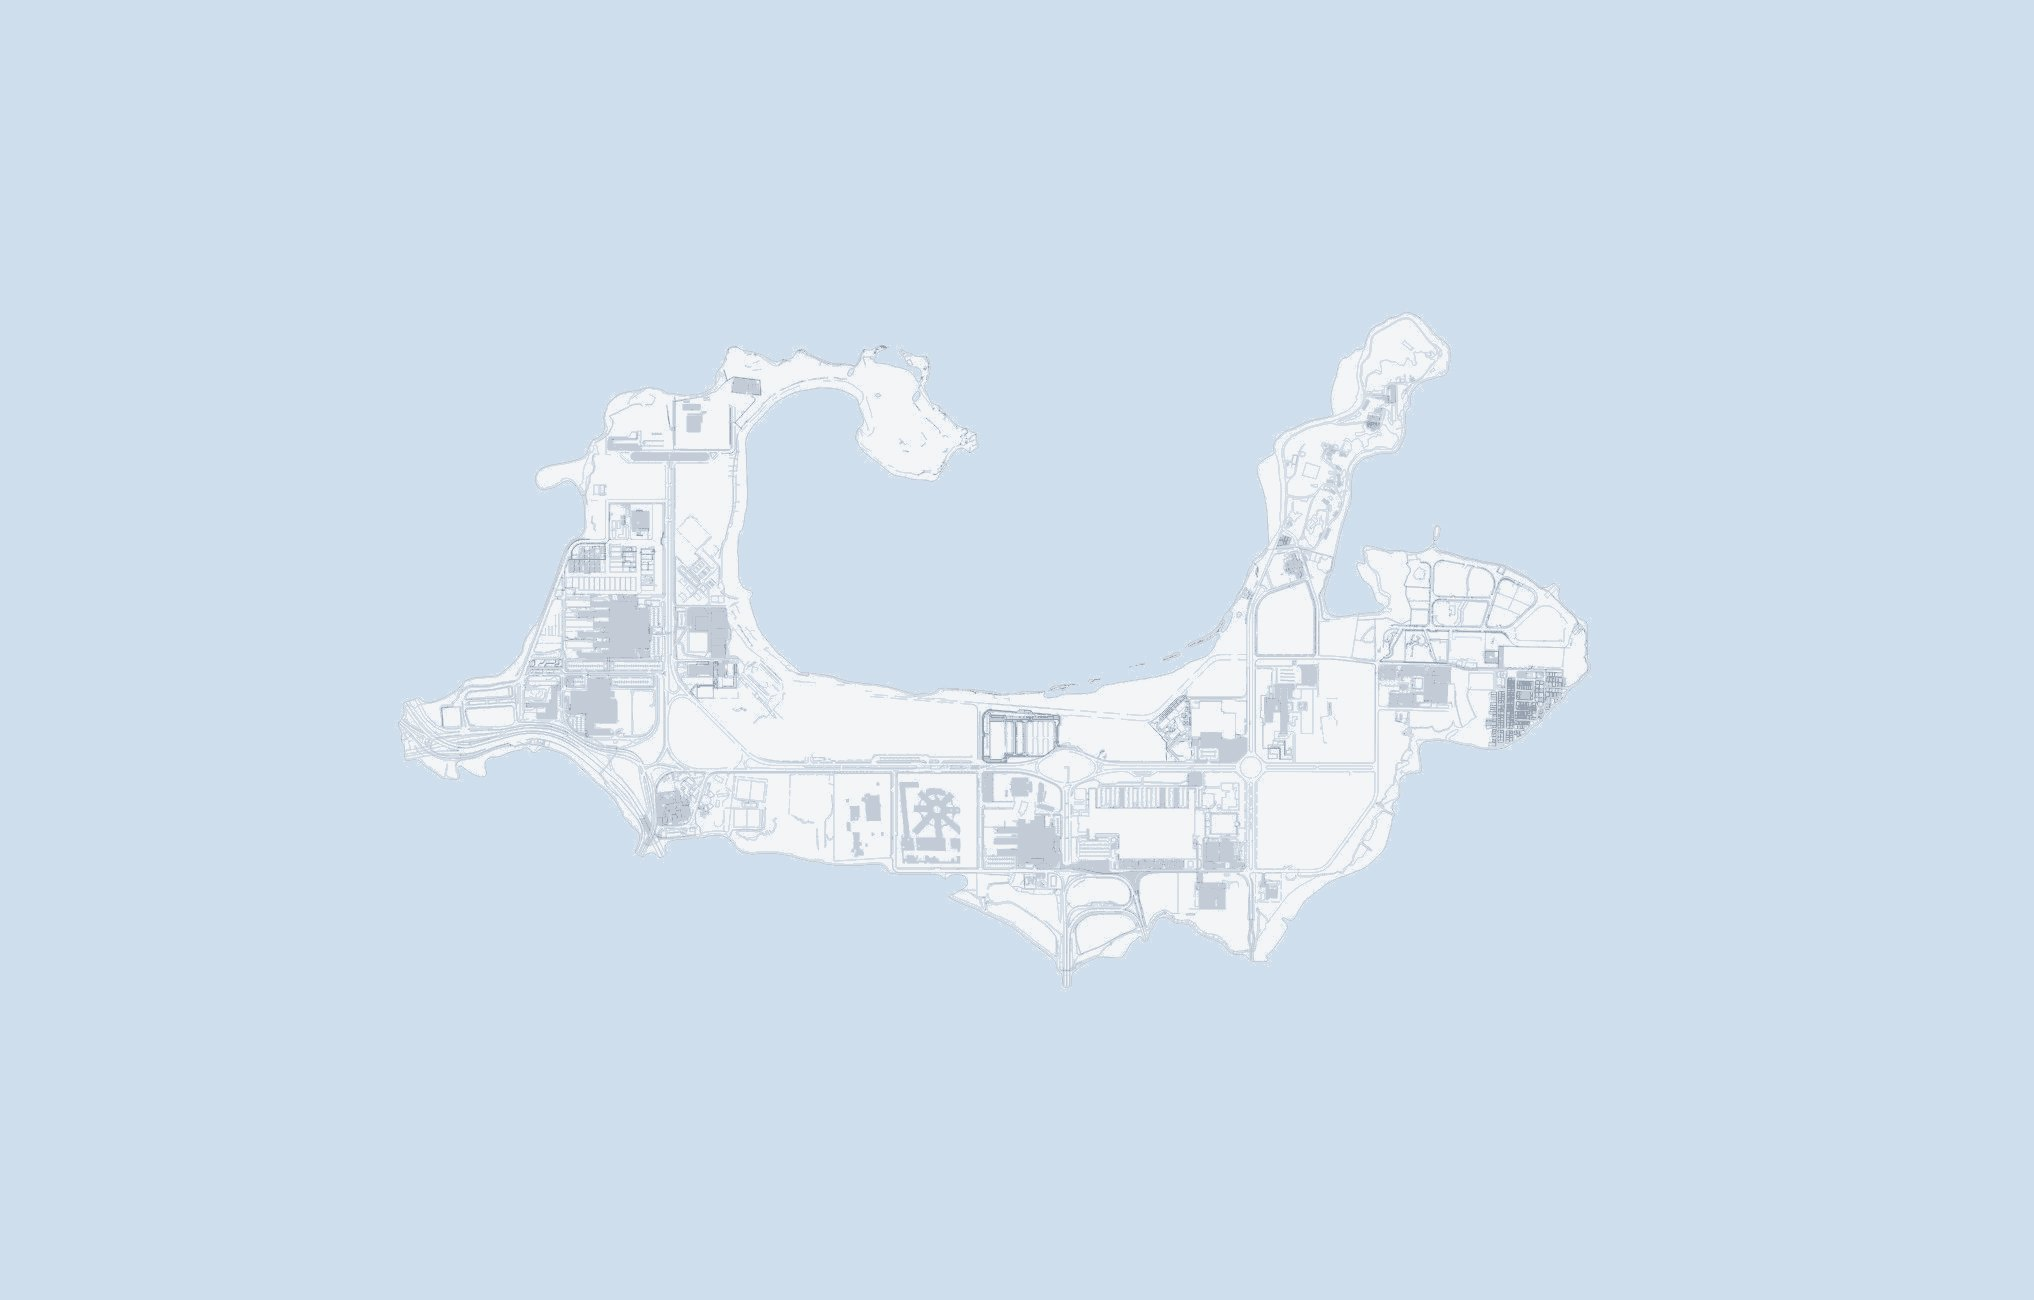
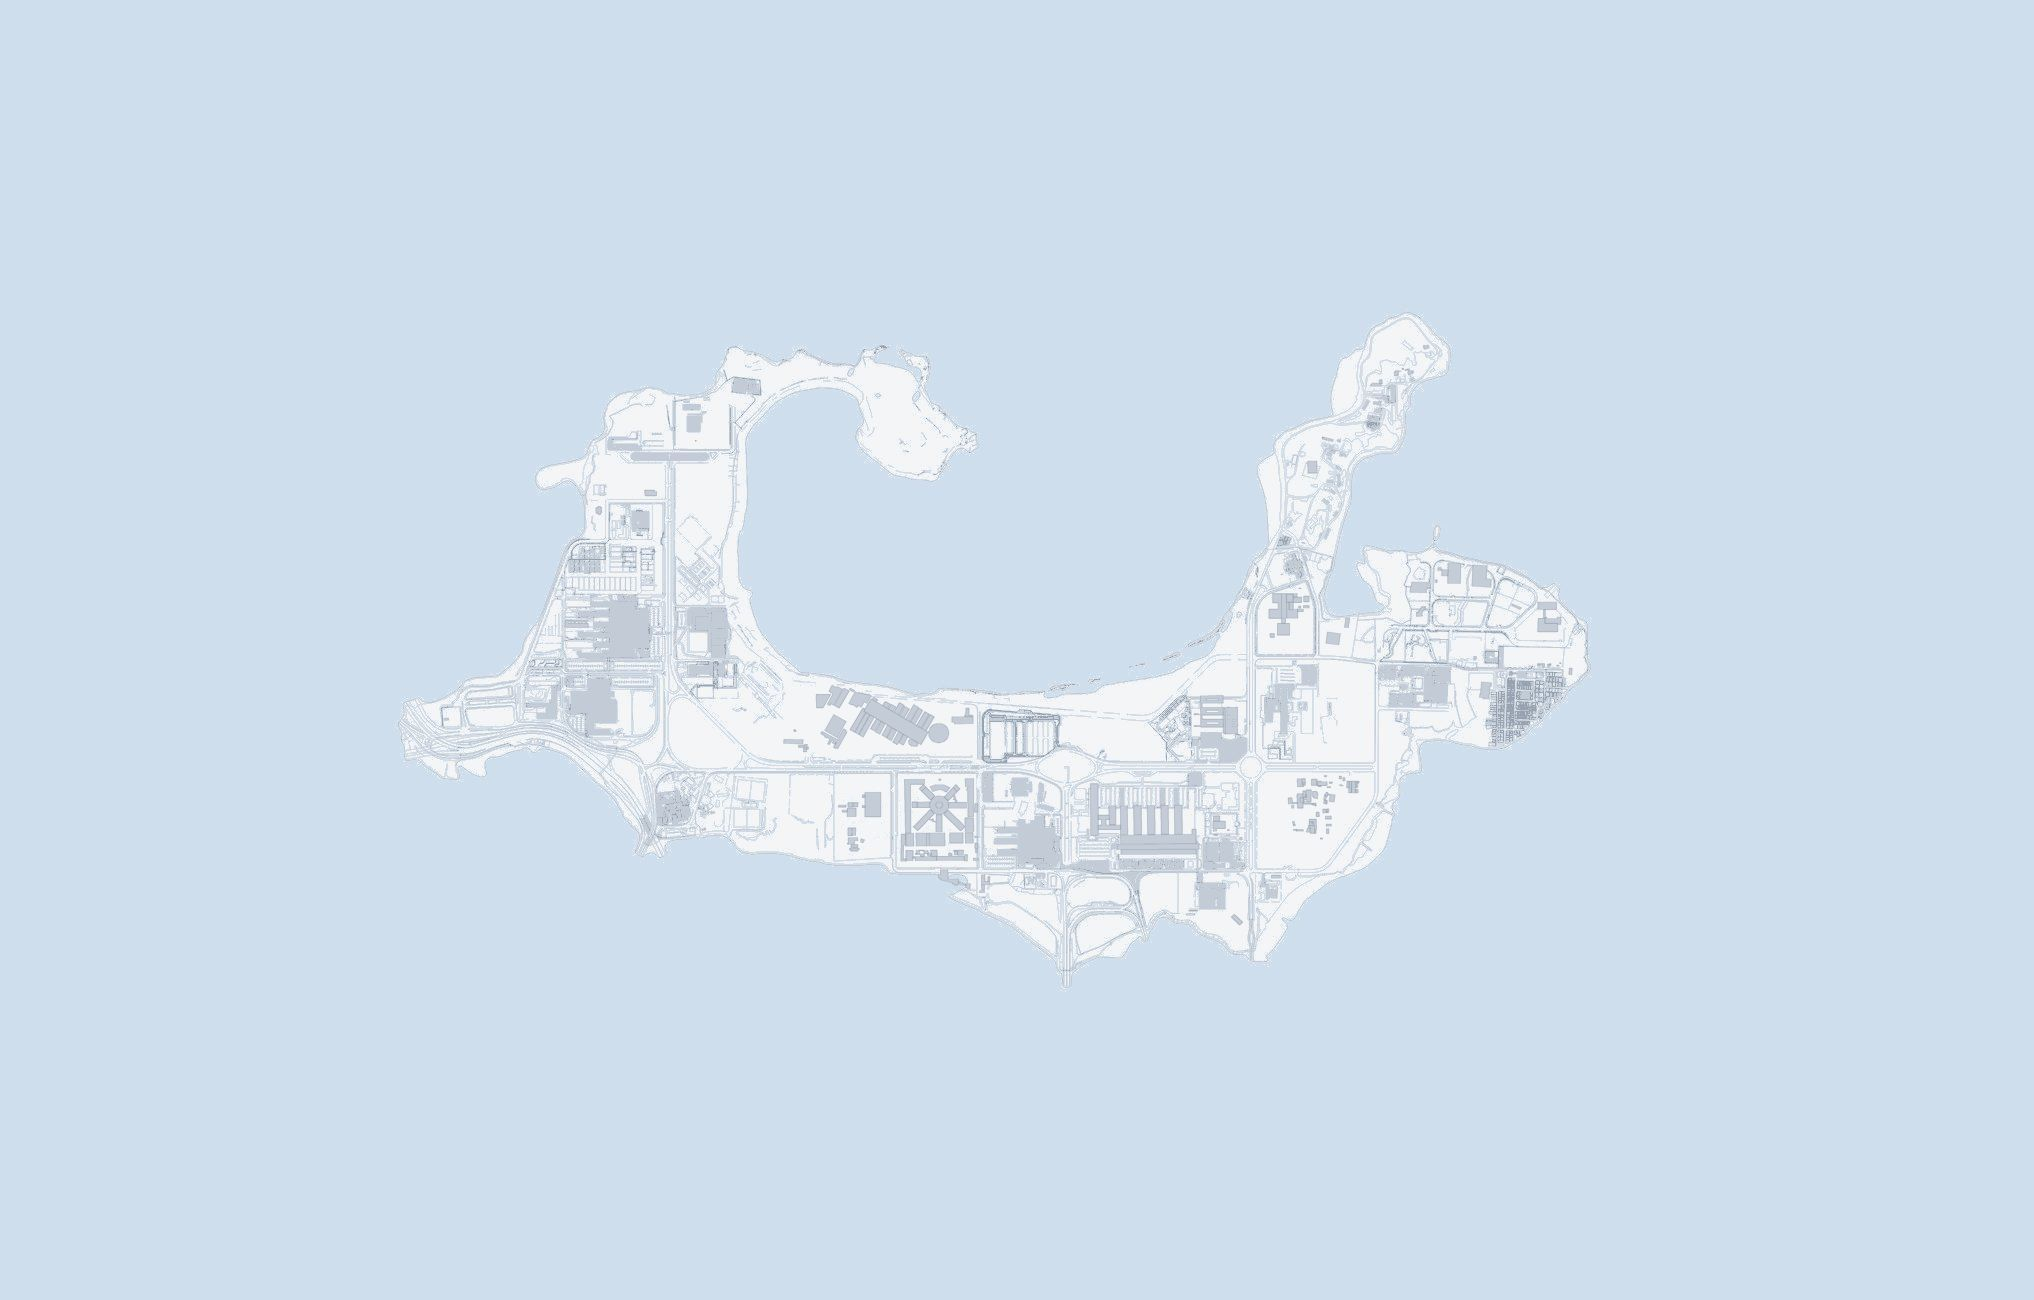
Capa e fundos com os prédios do cadastro da UFRJ
As imagens da planta (capa, fundo do login, fundo do app e visão geral do
mapa) ainda mostravam o CENPES borrado e não tinham o CENPES II, o IEN e o
bloco central do CT. tools/planta_imagens.py refaz essas imagens a partir
das originais (guardadas em tools/dados/planta/) e de src/edificacoes.json.

Claude-Session: https://claude.ai/code/session_01DT6KB29HVrx5nCmAST2Dnt

diff --git a/index.html b/index.html
@@ -13,7 +13,7 @@
 <meta name="apple-mobile-web-app-title" content="Chega aí">
 <link rel="apple-touch-icon" href="apple-touch-icon.png">
 <link rel="icon" type="image/png" sizes="32x32" href="favicon-32.png">
-<link rel="stylesheet" href="style.css?v=20261107-2241">
+<link rel="stylesheet" href="style.css?v=20261107-2256">
 </head>
 <body>
 <svg width="0" height="0" style="position:absolute" aria-hidden="true" focusable="false"><filter id="lg-refract" x="0" y="0" width="100%" height="100%" color-interpolation-filters="sRGB"><feTurbulence type="fractalNoise" baseFrequency="0.012 0.018" numOctaves="2" seed="11" result="n"/><feGaussianBlur in="n" stdDeviation="2.5" result="nb"/><feDisplacementMap in="SourceGraphic" in2="nb" scale="14" xChannelSelector="R" yChannelSelector="G"/></filter></svg>
@@ -171,7 +171,7 @@
 
   <details class="foot"><summary>Sobre o protótipo e as fontes</summary><p>Linhas, ordem das paradas e frequências: página de <a href="https://prefeitura.ufrj.br/servicos/transporte-integrado/linhas-internas/" target="_blank" rel="noopener">linhas internas da Prefeitura Universitária</a>, dias úteis. Horários do CCMN: <a href="https://sibi.ufrj.br/2019/09/17/informacoes-bibliotecas-ciencias-exatas-e-da-terra/" target="_blank" rel="noopener">SiBI/UFRJ</a> e lista de endereços das unidades da UFRJ (2022); podem mudar nas férias. Os horários de cada parada são estimados a partir da frequência e da distância. O mapa base é a planta de situação da Cidade Universitária (levantamento cadastral da ETU/Prefeitura Universitária, 2015, desenho de 2022), vetorizada e em versão escura; o traçado das linhas e a posição das paradas sobre ela são aproximados. Telefones de segurança: <a href="https://prefeitura.ufrj.br/2024/12/contatos-de-emergencia-ufrj/" target="_blank" rel="noopener">Contatos de emergência da Prefeitura Universitária</a> (dez/2024). Horários dos RUs: <a href="https://ru.ufrj.br/index.php/2014-08-19-01-48-52" target="_blank" rel="noopener">Sistema de Alimentação</a> e <a href="https://conexao.ufrj.br/2025/11/restaurantes-universitarios-comemoram-250-dias-de-cafe-da-manha-na-ufrj/" target="_blank" rel="noopener">Conexão UFRJ (nov/2025)</a>. Calendário: datas de graduação 2026 publicadas pelo <a href="https://www.ie.ufrj.br/graduacao-calendarios.html" target="_blank" rel="noopener">IE/UFRJ</a> e pela <a href="https://direito.ufrj.br/wp-content/uploads/2024/07/CALENDARIO-ACADEMICO-2026-2.docx-Google-Docs.pdf" target="_blank" rel="noopener">FND/UFRJ</a>. Tutorial do eduroam: <a href="https://tic.ufrj.br/conheca-o-eduroam/" target="_blank" rel="noopener">TIC/UFRJ</a> e <a href="https://ajuda.rnp.br/eduroam/manual-do-usuario" target="_blank" rel="noopener">manual da RNP</a>. Pontos de Wi-Fi aberto, notas e dicas são exemplos para a turma validar no campus. A sua nota fica salva só neste aparelho.</p></details>
 </div>
-<script src="config.js?v=20261107-2241"></script>
-<script src="app.js?v=20261107-2241"></script>
+<script src="config.js?v=20261107-2256"></script>
+<script src="app.js?v=20261107-2256"></script>
 </body>
 </html>

diff --git a/sw.js b/sw.js
@@ -1,6 +1,6 @@
-/* Chega aí UFRJ · service worker (gerado no empacotamento, versão 20261107-2241) */
-var CACHE='cse-20261107-2241';
-var PRE=["./", "index.html", "style.css?v=20261107-2241", "app.js?v=20261107-2241", "config.js?v=20261107-2241", "manifest.json", "icon-192.png", "icon-512.png", "apple-touch-icon.png", "favicon-32.png", "mapa-blur-claro.jpg", "mapa-blur.jpg", "mapa-bordas-claro.jpg", "mapa-bordas.jpg", "mapa-campus-claro.jpg", "mapa-campus-claro.svg", "mapa-campus.jpg", "mapa-campus.svg", "mapa-mini-claro.jpg", "mapa-mini.jpg"];
+/* Chega aí UFRJ · service worker (gerado no empacotamento, versão 20261107-2256) */
+var CACHE='cse-20261107-2256';
+var PRE=["./", "index.html", "style.css?v=20261107-2256", "app.js?v=20261107-2256", "config.js?v=20261107-2256", "manifest.json", "icon-192.png", "icon-512.png", "apple-touch-icon.png", "favicon-32.png", "mapa-blur-claro.jpg", "mapa-blur.jpg", "mapa-bordas-claro.jpg", "mapa-bordas.jpg", "mapa-campus-claro.jpg", "mapa-campus-claro.svg", "mapa-campus.jpg", "mapa-campus.svg", "mapa-mini-claro.jpg", "mapa-mini.jpg"];
 self.addEventListener('install',function(e){
   e.waitUntil(caches.open(CACHE).then(function(c){return Promise.all(PRE.map(function(u){return c.add(u).catch(function(){})}))}).then(function(){return self.skipWaiting()}));
 });

diff --git a/app.js b/app.js
@@ -3304,7 +3304,7 @@ aoFazer('trajeto montado',function(){if(CMP.on)cmpSchedule()});/* ---------- fil
 })();
 /* ======================= versão de apresentação: robustez ======================= */
 /* Número da versão: o empacotamento para o GitHub troca 'dev' pela data e hora do pacote. */
-var APP_VERSION='20261107-2241';
+var APP_VERSION='20261107-2256';
 var ON_SITE=!(window.claude&&typeof window.claude.use==='function');
 /* ---------- limite de envios: carimbo do servidor + intervalo no aparelho ---------- */
 var POST_GAP={rep:30,fila:30,req:60};

diff --git a/tools/planta_imagens.py b/tools/planta_imagens.py
@@ -1,0 +1,73 @@
+# Refaz as imagens da planta (mapa-campus, mapa-bordas, mapa-mini e mapa-blur, temas escuro e claro) com os prédios
+# do cadastro da UFRJ (src/edificacoes.json, gerado por tools/edificacoes_ufrj.py): os que faltavam e os redesenhados.
+# Essas imagens aparecem na capa, no fundo do login, no fundo do app e na visão geral do mapa; no zoom o app usa o
+# SVG da planta com os mesmos prédios desenhados por cima (src/js/26-predios-ufrj.js).
+#
+# Parte sempre das imagens originais, guardadas em tools/dados/planta/, então pode rodar quantas vezes quiser.
+# Uso, na raiz do repositório:  python3 tools/planta_imagens.py
+import json, os, re
+import numpy as np
+from PIL import Image, ImageDraw, ImageFilter
+
+ROOT = os.path.dirname(os.path.dirname(os.path.abspath(__file__)))
+ORIG = os.path.join(ROOT, 'tools', 'dados', 'planta')
+EDIF = json.load(open(os.path.join(ROOT, 'src', 'edificacoes.json'), encoding='utf-8'))
+
+# cores da planta (as mesmas de src/css/12-predios-ufrj.css): chão, prédio e contorno
+CORES = {'': ('#12161c', '#4d5967', '#6f7b89'), '-claro': ('#f4f6f8', '#c4cdd7', '#96a2af')}
+# área de cada imagem em unidades do mapa (x, y, largura, altura)
+CAMPUS, BORDAS = (109, -45, 1233, 701), (-270, -340, 2034, 1300)
+SS = 4  # desenha em 4x e reduz, para as bordas ficarem suaves
+
+def aneis(d):
+  out = []
+  for parte in re.findall(r'M([^MZ]*)Z', d):
+    v = [float(t) for t in parte.split()]
+    out.append([(v[i], v[i + 1]) for i in range(0, len(v) - 1, 2)])
+  return out
+def dentro(P, x, y):
+  o = False; j = len(P) - 1
+  for i in range(len(P)):
+    (ax, ay), (bx, by) = P[i], P[j]
+    if (ay > y) != (by > y) and x < (bx - ax) * (y - ay) / (by - ay) + ax: o = not o
+    j = i
+  return o
+FUNDO = aneis(EDIF.get('apagar', ''))
+PREDIOS = [aneis(p[1]) for p in EDIF['predios']]
+
+def mascaras(area, tam):
+  """Máscaras (tons de cinza) do chão a cobrir, dos prédios e dos contornos, no tamanho da imagem."""
+  x0, y0, w, h = area; k = tam[0] / w * SS
+  big = (tam[0] * SS, tam[1] * SS)
+  pt = lambda p: ((p[0] - x0) * k, (p[1] - y0) * k)
+  chao, cheio, borda = (Image.new('L', big, 0) for _ in range(3))
+  dc, dp, db = ImageDraw.Draw(chao), ImageDraw.Draw(cheio), ImageDraw.Draw(borda)
+  for A in FUNDO:
+    q = [pt(p) for p in A]; dc.polygon(q, fill=255); dc.line(q + [q[0]], fill=255, width=max(1, round(2.4 * k)), joint='curve')
+  for R in PREDIOS:
+    for i, A in enumerate(R):  # anéis de dentro de um prédio são pátios: ficam vazios
+      buraco = i > 0 and dentro(R[0], *A[0])
+      dp.polygon([pt(p) for p in A], fill=0 if buraco else 255)
+  for R in PREDIOS:
+    for A in R:
+      q = [pt(p) for p in A]; db.line(q + [q[0]], fill=255, width=max(1, round(0.45 * k)), joint='curve')
+  return [m.resize(tam, Image.LANCZOS) for m in (chao, cheio, borda)]
+
+def aplica(img, area, suf):
+  img = img.convert('RGB')
+  for cor, m in zip(CORES[suf], mascaras(area, img.size)):
+    img.paste(Image.new('RGB', img.size, cor), (0, 0), m)
+  return img
+
+for suf in CORES:
+  ler = lambda n: Image.open(os.path.join(ORIG, 'mapa-%s%s.jpg' % (n, suf)))
+  salva = lambda img, n, q: img.save(os.path.join(ROOT, 'mapa-%s%s.jpg' % (n, suf)), quality=q, optimize=True)
+  salva(aplica(ler('campus'), CAMPUS, suf), 'campus', 80)
+  salva(aplica(ler('bordas'), BORDAS, suf), 'bordas', 80)
+  mini0 = ler('mini').convert('RGB'); mini = aplica(mini0, CAMPUS, suf); salva(mini, 'mini', 80)
+  # o fundo desfocado recebe só a diferença, desfocada do mesmo jeito (raio 6), para manter o tom original
+  bl = lambda im: im.filter(ImageFilter.GaussianBlur(6))
+  a = lambda im: np.asarray(im, dtype=np.int16)
+  blur = np.clip(a(ler('blur').convert('RGB')) + a(bl(mini)) - a(bl(mini0)), 0, 255).astype(np.uint8)
+  salva(Image.fromarray(blur), 'blur', 60)
+print('imagens da planta refeitas com %d prédios do cadastro' % len(PREDIOS))

diff --git a/CLAUDE.md b/CLAUDE.md
@@ -8,6 +8,7 @@ App web (sem framework) da Cidade Universitária da UFRJ, publicado pelo GitHub 
   - `src/css/NN-*.css` e `src/js/NN-*.js`: estilos e código, juntados na ordem dos números;
   - `src/ext_onibus.json`: dados dos ônibus da cidade (gerado por `tools/gtfs_fundao.py`).
   - `src/edificacoes.json`: prédios que faltavam na planta do mapa (gerado por `tools/edificacoes_ufrj.py` a partir do cadastro da UFRJ no ArcGIS, copiado em `tools/dados/`).
+  - `mapa-*.jpg` (capa, fundos e visão geral do mapa): refeitas por `tools/planta_imagens.py` a partir das originais em `tools/dados/planta/` e de `src/edificacoes.json`. Rode depois de mudar os prédios. Os `mapa-campus*.svg` (zoom) ficam como estão; os prédios entram por cima pelo app.
 - `tools/montar.py` junta as partes num arquivo único (`app-completo.html`, o que vai para o claude.ai).
 - `python3 tools/build_site.py` gera o site: `app.js`, `style.css`, o corpo do `index.html`, `version.json` e `sw.js`. **Nunca edite esses arquivos à mão.** O cabeçalho do `index.html` (até `<body>`) é mantido.
 
